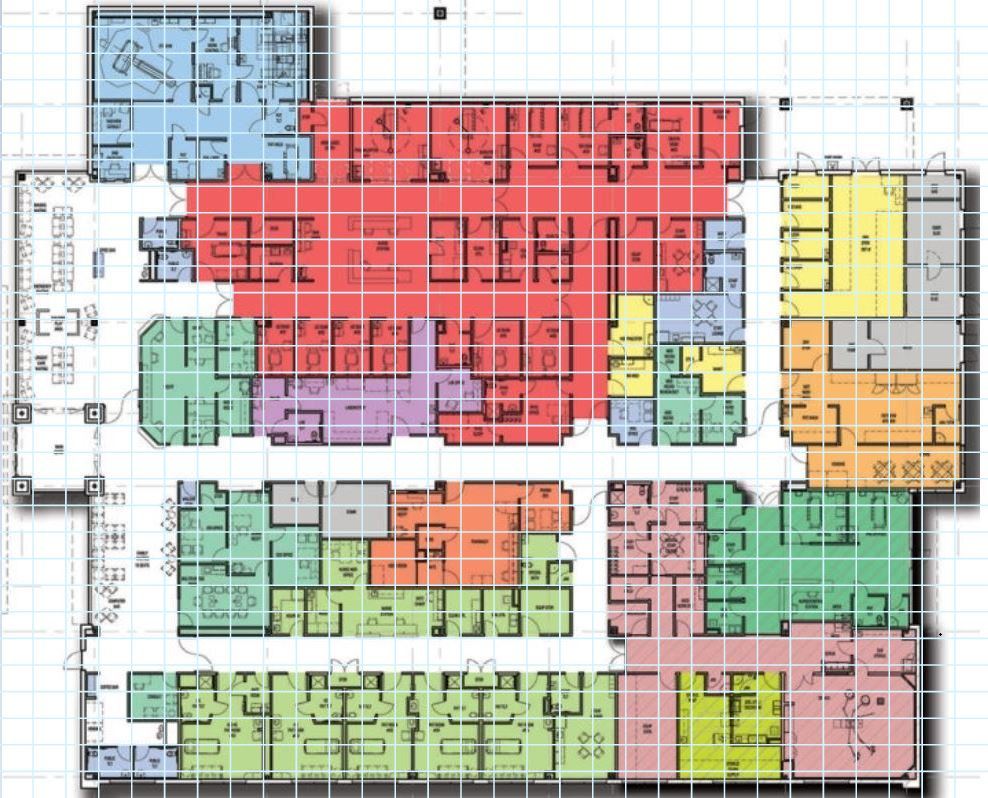
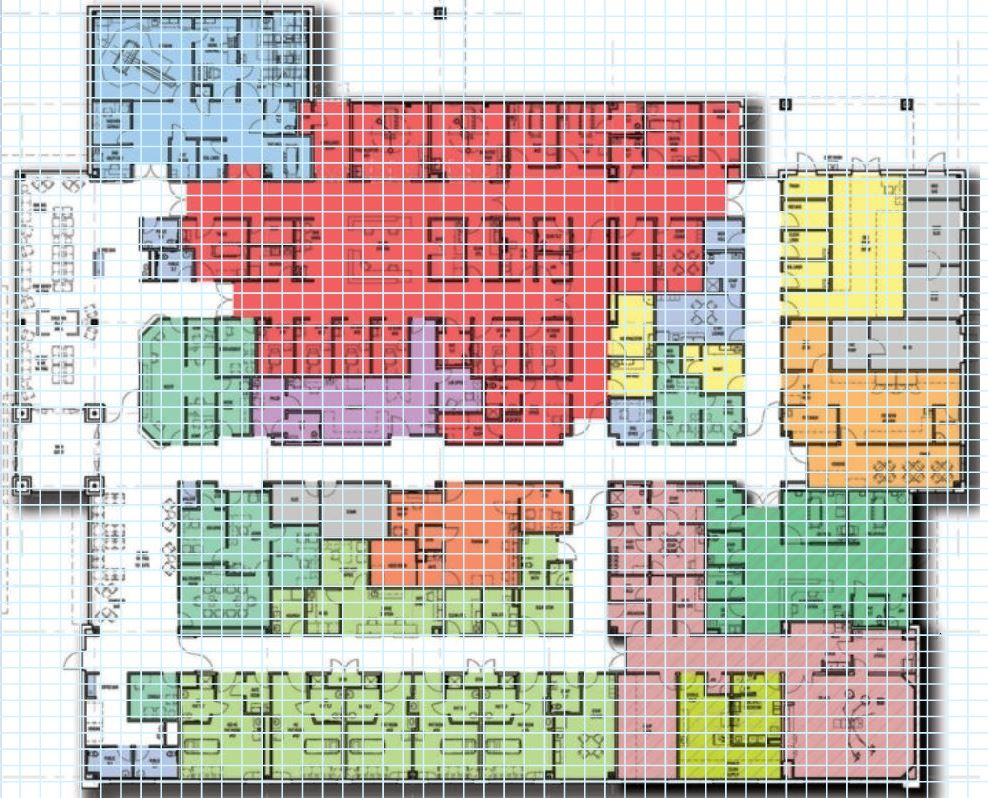
added colors to floorplan

Changed region(s): [[0.0, 0.0, 1.0, 1.0], [0.9717, 0.1203, 1.0, 0.1504]]

diff --git a/AStar.py b/AStar.py
@@ -183,10 +183,40 @@ class MazeGame:
     def draw_maze(self):
         for x in range(self.rows):
             for y in range(self.cols):
-                ## do the dx dy from find path here to get any missing NWSE connections
-                color = 'maroon' if self.maze[x][y] == 1 else 'white'
+                cell_color = 'white'  # Default color for cells
+
+
+                # Assign colors based on ward
+                ward = self.cells[x][y].ward
+                if ward == 'm':
+                    cell_color = 'lightblue'
+                elif ward == 'g':
+                    cell_color = 'firebrick'
+                elif ward == 'e':
+                    cell_color = 'yellow'
+                elif ward == 'a':
+                    cell_color = 'grey'
+                elif ward == 'i':
+                    cell_color = 'powderblue'
+                elif ward == 'o':
+                    cell_color = 'forestgreen'
+                elif ward == 'b':
+                    cell_color = 'mediumpurple'
+                elif ward == 'p':
+                    cell_color = 'yellowgreen'
+                elif ward == 's':
+                    cell_color = 'lightcoral'
+                elif ward == 'd':
+                    cell_color = 'olivedrab'
+                elif ward == 'c':
+                    cell_color = 'sandybrown'
+                elif ward == 'h':
+                    cell_color = 'chocolate'
+
+                if self.cells[x][y].is_wall:
+                    cell_color = 'black'  # Wall color
                 self.canvas.create_rectangle(y * self.cell_size, x * self.cell_size, (y + 1) * self.cell_size,
-                                             (x + 1) * self.cell_size, fill=color)
+                                             (x + 1) * self.cell_size, fill=cell_color)
                 if not self.cells[x][y].is_wall:
                     text = f'g={self.cells[x][y].g}\nh={self.cells[x][y].h}'
                     self.canvas.create_text((y + 0.5) * self.cell_size, (x + 0.5) * self.cell_size, font=("Purisa", 12),
@@ -267,7 +297,7 @@ class MazeGame:
             print(current_cell.x, current_cell.y)
 
             # Redraw cell with updated g() and h() values
-            color = 'skyblue'
+            color = 'darkblue'
             self.canvas.create_rectangle(y * self.cell_size, x * self.cell_size, (y + 1) * self.cell_size,
                                          (x + 1) * self.cell_size, fill=color)
             text = f'g={self.cells[x][y].g}\nh={self.cells[x][y].h}'
